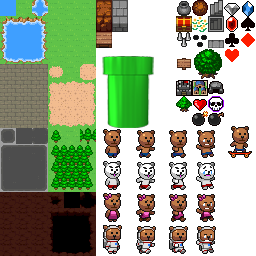
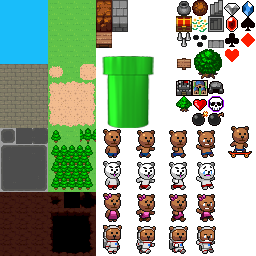
ステージ追加 透明ブロックの追加 ゲームオーバーの設定

Changed region(s): [[0.0, 0.0, 0.1875, 0.25]]

diff --git a/2DLv1_2022_vs2019/GameProgramming/src/CUi.cpp b/2DLv1_2022_vs2019/GameProgramming/src/CUi.cpp
@@ -3,19 +3,19 @@
 
 void CUi::Clear()
 {
-	mFont.Draw(36, 300, 18, 36, "GAME CLEAR!!");
-	mFont.Draw(36, 200, 18, 36, "PUSH ENTER KEY!");
+	mFont.Draw(350, 500, 18, 36, "GAME CLEAR!!");
+	mFont.Draw(350, 400, 18, 36, "PUSH ENTER KEY!");
 }
 
 void CUi::Over()
 {
-	mFont.Draw(36, 300, 18, 36, "GAME OVER!!");
-	mFont.Draw(36, 200, 18, 36, "PUSH ENTER KEY!");
+	mFont.Draw(350, 500, 18, 36, "GAME OVER!!");
+	mFont.Draw(350, 400, 18, 36, "PUSH ENTER KEY!");
 }
 
 void CUi::Start()
 {
-	mFont.Draw(36, 300, 18, 36, "START PUSH ENTER KEY!");
+	mFont.Draw(250, 500, 18, 36, "START PUSH ENTER KEY!");
 }
 
 void CUi::Enemy(int enemy)
@@ -45,7 +45,7 @@ void CUi::Render()
 {
 	char str[16];
 	sprintf(str, "TIME:%03d", mTime);
-	mFont.Draw(620, 580, 10, 20, str);
+	mFont.Draw(850, 760, 10, 20, str);
 	sprintf(str, "HP:%d", mHp);
 	mFont.Draw(20, 20, 10, 20, str);;
 }

diff --git a/2DLv1_2022_vs2019/GameProgramming/src/CEnemy2.cpp b/2DLv1_2022_vs2019/GameProgramming/src/CEnemy2.cpp
@@ -110,11 +110,13 @@ void CEnemy2::Collision(CCharacter* m, CCharacter* o)
 				mVy = 0.0f;
 				if (y > 0.0f)
 				{
-					mState = EState::EMOVE;
+					if (mState != EState::ECRY)
+					{
+						mState = EState::EMOVE;
+					}
 				}
 			}
 		}
 		break;
 	}
-
 }

diff --git a/2DLv1_2022_vs2019/GameProgramming/src/CBlock2.cpp b/2DLv1_2022_vs2019/GameProgramming/src/CBlock2.cpp
@@ -4,7 +4,7 @@
 
 CBlock2::CBlock2(float x, float y, float w, float h, CTexture* pt)
 {
-	Set(x, y, w, h);
+	Set(x, y, w, h/1.2);
 	Texture(pt, TEXCOORD);
 	mTag = ETag::EBLOCK;
 }
